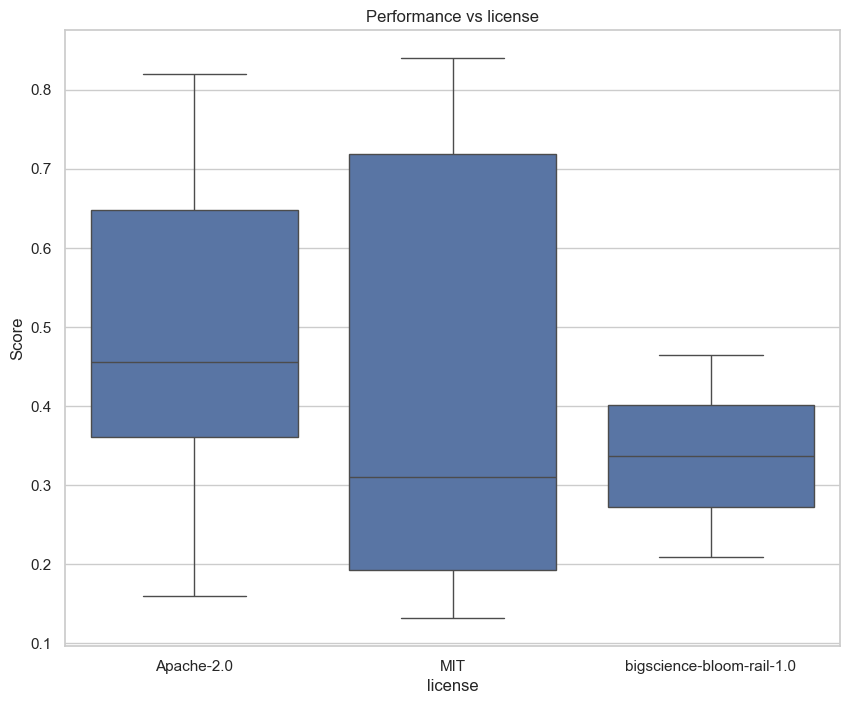
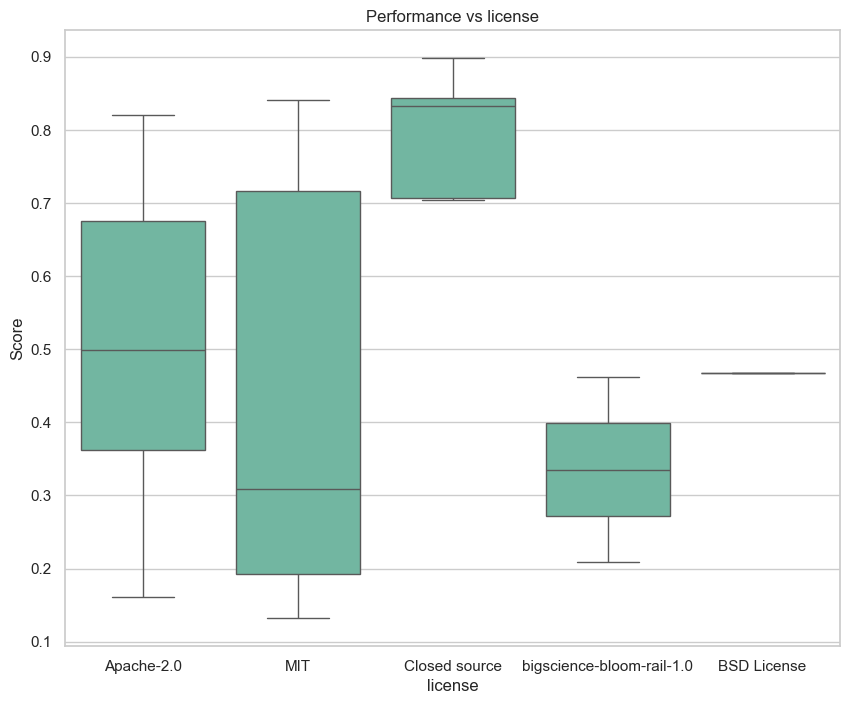
fixing script and figures

diff --git a/script_mteb_french/results_analysis/performance_vs_characteristics.py b/script_mteb_french/results_analysis/performance_vs_characteristics.py
@@ -20,6 +20,21 @@ CHARACTERISTICS = {
     "tuned_on_sentence_sim": "numerical",
 }
 
+COLS_TO_KEEP_GLOBAL_CORRELATION = {
+    "score": "Model ranking",
+    "finetuned": "Finetuned vs pretrained",
+    "number_params": "Model number of parameters",
+    "seq_len": "Max sequence length",
+    "embedding_dim": "Embedding dimension",
+    "tuned_on_sentence_sim": "Tuned for sentence similarity",
+    "bilingual": "Bilingual",
+    "english": "English",
+    "english_plus": "English tuned on other languages",
+    "french": "French",
+    "multilingual": "Multilingual",
+    "Closed source": "Closed source",
+}
+
 
 def parse_args() -> Namespace:
     """Parse command line arguments
@@ -49,7 +64,6 @@ def prepare_data(
     if mode == "avg":
         data = data.groupby("model").mean().reset_index()
     data = data.merge(characteristics_df, on="model", how="left")
-    data = data.dropna(axis=0, how="any")
     return data
 
 
@@ -59,12 +73,14 @@ def global_correlation(
     data = prepare_data(results_df, characteristics_df, mode="avg")
     data = data.drop(columns=["model"])
     # get dummies for categorical variables
-    data = pd.get_dummies(data, prefix='', prefix_sep='')
+    data = pd.get_dummies(data, prefix="", prefix_sep="")
+    data = data[list(COLS_TO_KEEP_GLOBAL_CORRELATION.keys())]
+    data = data.rename(columns=COLS_TO_KEEP_GLOBAL_CORRELATION)
     # compute correlation matrix
     corr_matrix = data.corr(method="pearson")
     mask = np.tril(np.ones_like(corr_matrix, dtype=bool))
     corr_matrix = corr_matrix.where(mask)
-    # plot correlation heatmap 
+    # plot correlation heatmap
     plt.figure(figsize=(12, 10))
     plt.title("Correlation heatmap")
     sns.heatmap(corr_matrix, center=0, cmap="coolwarm")
@@ -84,6 +100,7 @@ def perfomance_vs_characteristic_plot(
     data = prepare_data(results_df, characteristics_df, mode)
     # Set seaborn style
     sns.set(style="whitegrid")
+    sns.set_palette("Set2")
     plt.figure(figsize=(10, 8))
     plt.title(f"Performance vs {target_characteristic}")
     plt.xlabel(target_characteristic)
